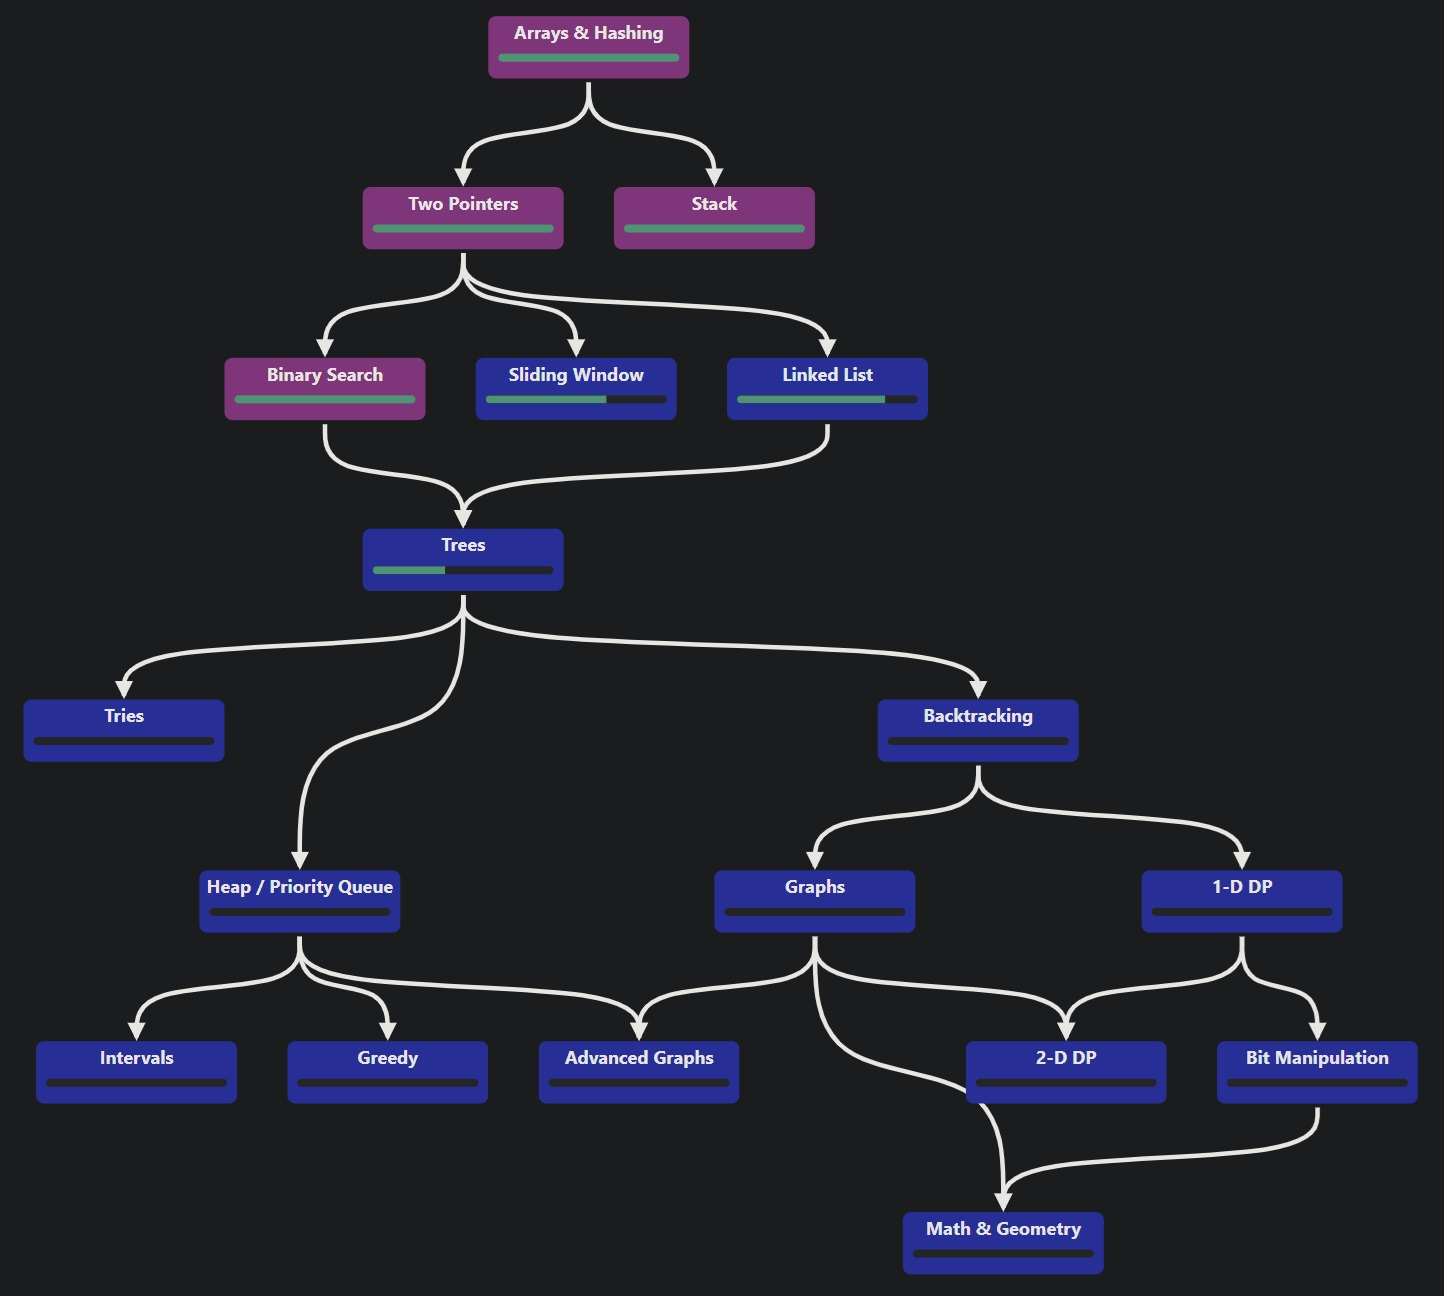
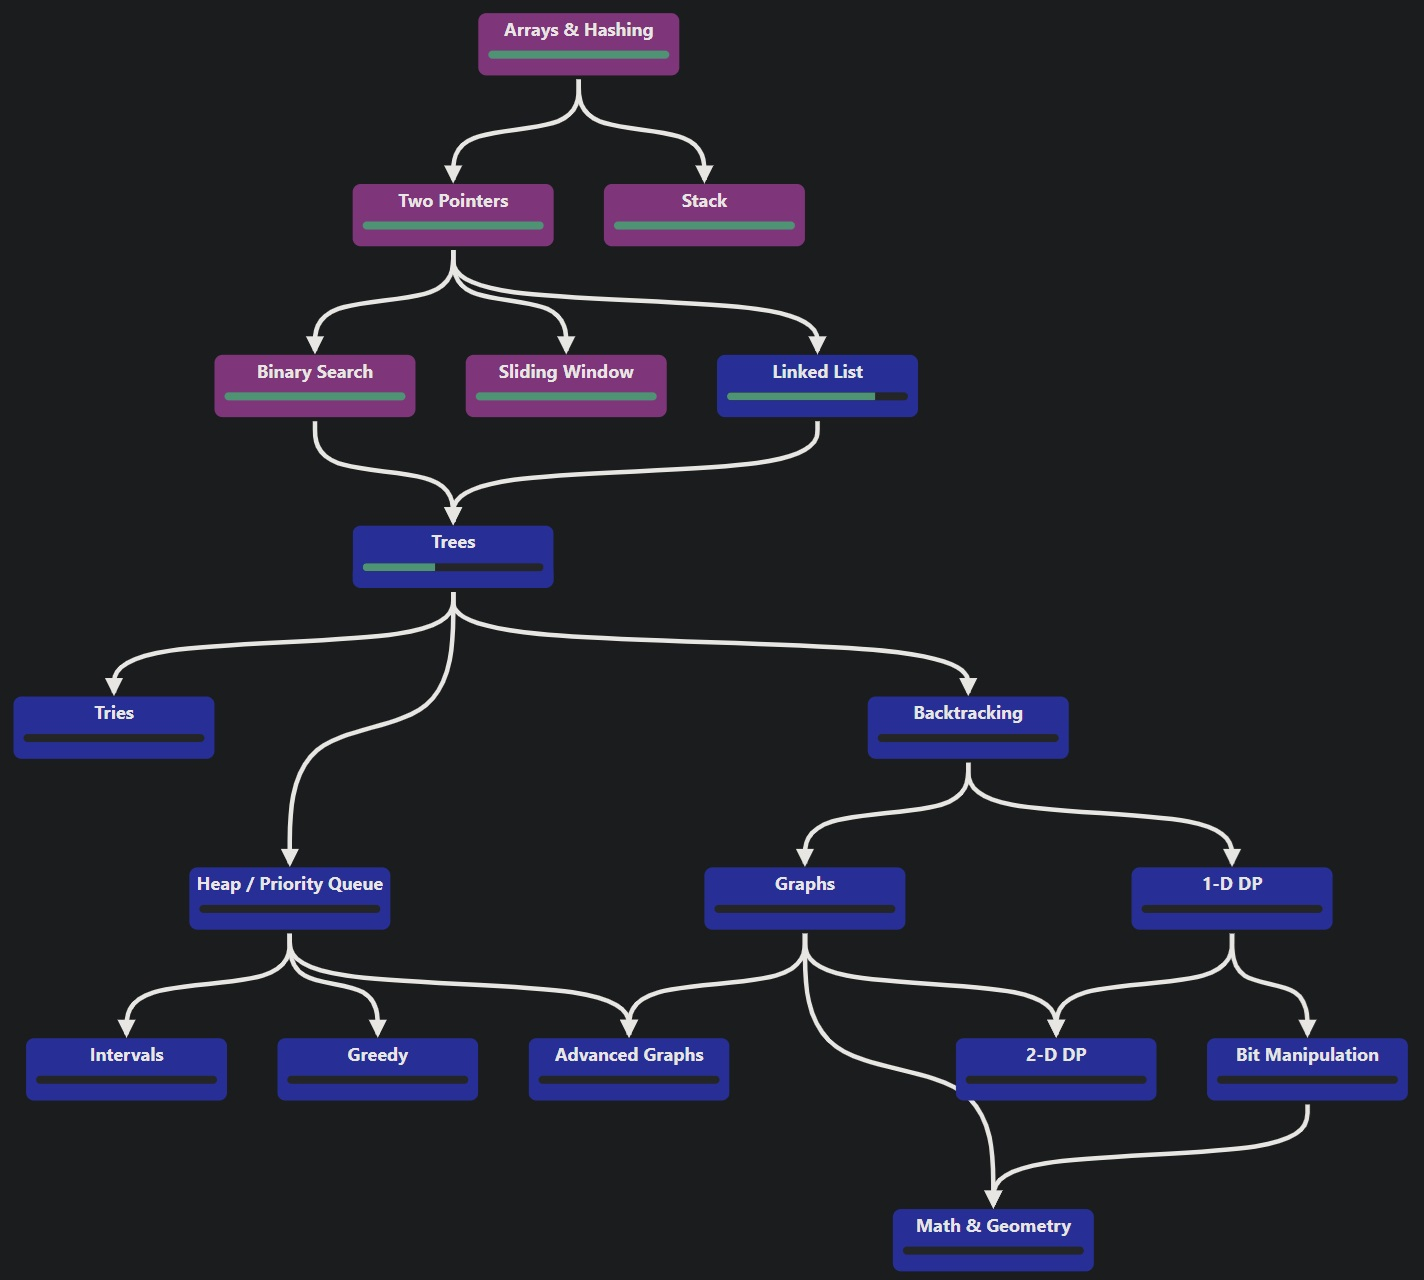
Finished "Sliding Window" category

diff --git a/Sliding-Window/Minimum-Window-Substring.py b/Sliding-Window/Minimum-Window-Substring.py
@@ -1,0 +1,85 @@
+from collections import deque
+
+class Solution:
+    def minWindow(self, s: str, t: str) -> str:
+        
+        # Create a hashtable to map the char:occurences pairs of the substring
+        hashTable = {}
+        for char in t:
+            if not char in hashTable:
+                hashTable.update({char : 1})
+            else:
+                hashTable[char] += 1
+            
+        # Initialize pointers to represent the bounds of our current search window
+        l, r = 0, 0
+
+        # Initialize a second hashtable that we will use to build substrings to match to target
+        hashTable2 = {}
+
+        # Initialize a deque so we can remove values from the substring if a more recent
+        # char is found vs the one at the front of the deque
+        visitedOrder = deque()
+
+        # Iterate through the string
+        smallest = ""
+        while r < len(s):
+            char = s[r]
+
+            # If we have no current substring and the char doesn't belong in it, skip
+            if len(hashTable2) == 0 and char not in hashTable:
+                l += 1
+                r += 1
+            
+            # If we have a current substring, only increment the right pointer to include new val in window
+            elif len(hashTable2) != 0 and char not in hashTable:
+                r += 1
+            
+            # Add the char to further build the substring to match, and update our deque
+            elif char in hashTable:
+                if char not in hashTable2:
+                    hashTable2.update({char : 1})
+                else:
+                    hashTable2[char] += 1
+                visitedOrder.append(char)
+                r += 1
+            
+            # If the current value we added exceeds the count in the string we are trying to match, and
+            # that val is at the start of the deque, we can safely discard it to use the new val as it will be smaller
+            while len(visitedOrder) != 0 and hashTable[visitedOrder[0]] < hashTable2[visitedOrder[0]]:
+                while l < len(s) and s[l] != visitedOrder[0]:
+                    l += 1
+                hashTable2[visitedOrder[0]] -= 1
+                visitedOrder.popleft()
+                l += 1
+                while s[l] != visitedOrder[0]:
+                    l += 1
+
+            # Test to see if our substring is valid and update smallest
+            if self.isValid(hashTable, hashTable2):
+                if smallest == "" or len(s[l:r]) < len(smallest):
+                    smallest = s[l:r]
+
+                # Pop our oldest value and slide the left side of the window to the next
+                # valid char
+                if hashTable2[s[l]] == 1:
+                    hashTable2.pop(s[l])
+                else:
+                    hashTable2[s[l]] -= 1
+                l += 1
+                visitedOrder.popleft()
+                while l < len(s) and len(visitedOrder) != 0 and s[l] != visitedOrder[0]:
+                    l += 1
+
+        return smallest
+
+    # For a string to be valid, the substring must have the same keys and an equal or higher
+    # occurence vs the target string (as this means we can handle repeated characters in the substring)
+    def isValid(self, dict1, dict2):
+
+        for key in dict1:
+            if key not in dict2:
+                return False
+            elif dict1[key] > dict2[key]:
+                return False
+        return True

diff --git a/Sliding-Window/Sliding-Window-Maximum.py b/Sliding-Window/Sliding-Window-Maximum.py
@@ -1,0 +1,44 @@
+# We will use a deque to be able to access and modify values on both ends in O(1) time
+from collections import deque 
+
+class Solution:
+    def maxSlidingWindow(self, nums: list[int], k: int) -> list[int]:
+        
+        # Initialize the result and deque
+        result = []
+        queue = deque()
+
+        # Create the window bounds for comparison
+        l, r = 0, 0
+
+        # Iterate until we have reached the end of the list
+        while r < len(nums):
+
+            # Calculate our current window size, and remove items from the deque if their
+            # index falls outside the current window range as the window has grown too large
+            windowSize = r - l + 1
+            if windowSize > k: 
+                l += 1
+                while len(queue) != 0 and l > queue[0]:
+                    queue.popleft()
+                windowSize -= 1
+            
+            # Process the new value
+            newVal = nums[r]
+
+            if len(queue) == 0:
+                queue.append(r)
+            else:
+                # Remove all values that are smaller than the current, then add the val
+                while len(queue) != 0 and newVal >= nums[queue[-1]]:
+                    queue.pop()
+                queue.append(r)
+            
+            # If we are at the correct window size, append the value at the start of the deque
+            # to the result as it is the largest in the descending-value queue
+            if (windowSize == k):
+                result.append(nums[queue[0]])
+
+            r += 1
+
+        return result
